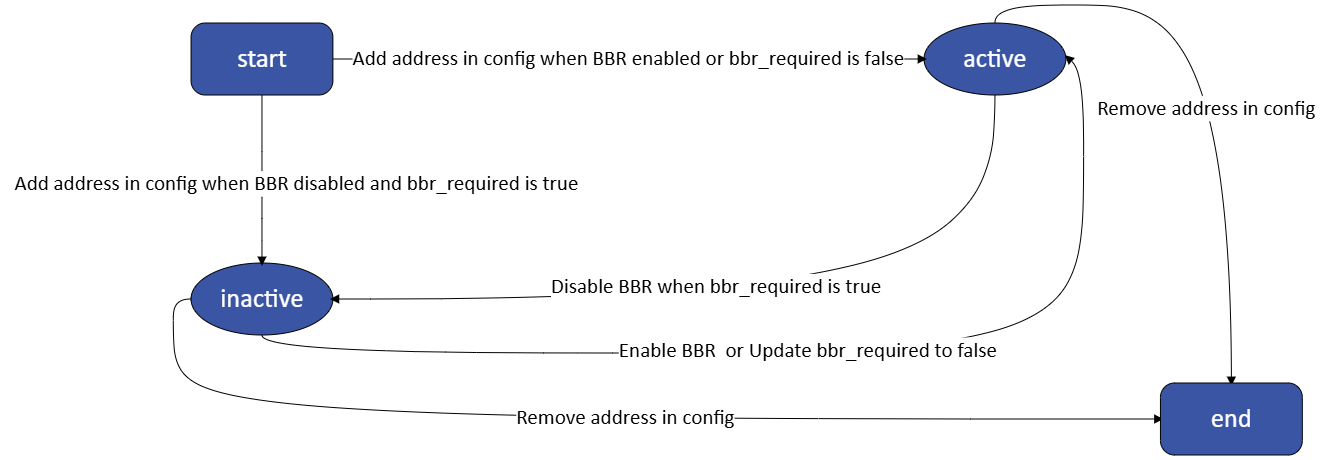
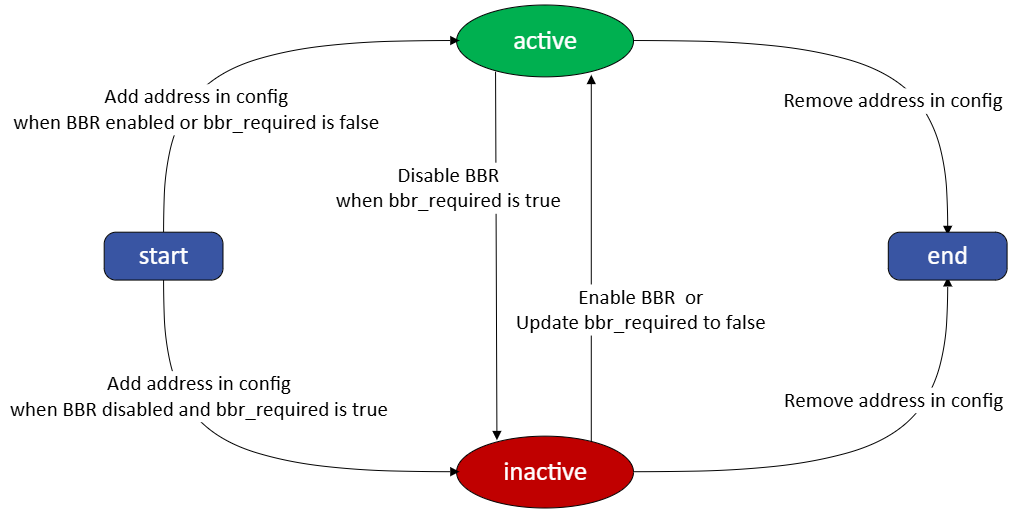
update state transition diagram

diff --git a/doc/BGP/BGP-route-aggregation-with-bbr-awareness.md b/doc/BGP/BGP-route-aggregation-with-bbr-awareness.md
@@ -14,7 +14,7 @@
         - [State DB Sample](#state-db-sample)
         - [State Transition Diagram](#state-transition-diagram)
     - [Bgp Container Behavior](#bgp-container-behavior)
-        - [UML Sequence Diagrams](#uml-sequence-diagrams)
+        - [Sequence Diagrams](#sequence-diagrams)
     - [CLI Design](#cli-design)
         - [Show CLI](#show-cli)
         - [Config CLI](#config-cli)
@@ -26,7 +26,7 @@
 | Revision | Date        | Author           | Change Description |
 | -------- | ----------- | ---------------- | ------------------ |
 | 1.0      | Jul 17 2024 | Wenda Chu        | Initial proposal   |
-| 1.1      | April 17 2025| Wenda Chu       | Update the output shcema of CLI|
+| 1.1      | April 17 2025| Wenda Chu       | Update the output shcema of CLI and state transition diagram|
 
 ## Definitions/Abbreviations
 
@@ -257,7 +257,7 @@ The process bgpcfgd in bgp container will subscribe the keys `BGP_AGGREGATE_ADDR
     - First remove the address according to the behavior 2.
     - Then add the address according to the behavior 1.
 
-#### UML Sequence Diagrams
+#### Sequence Diagrams
 ![](img/add-aggregated-address.png)
 
 *Fig.1 Add Address*
